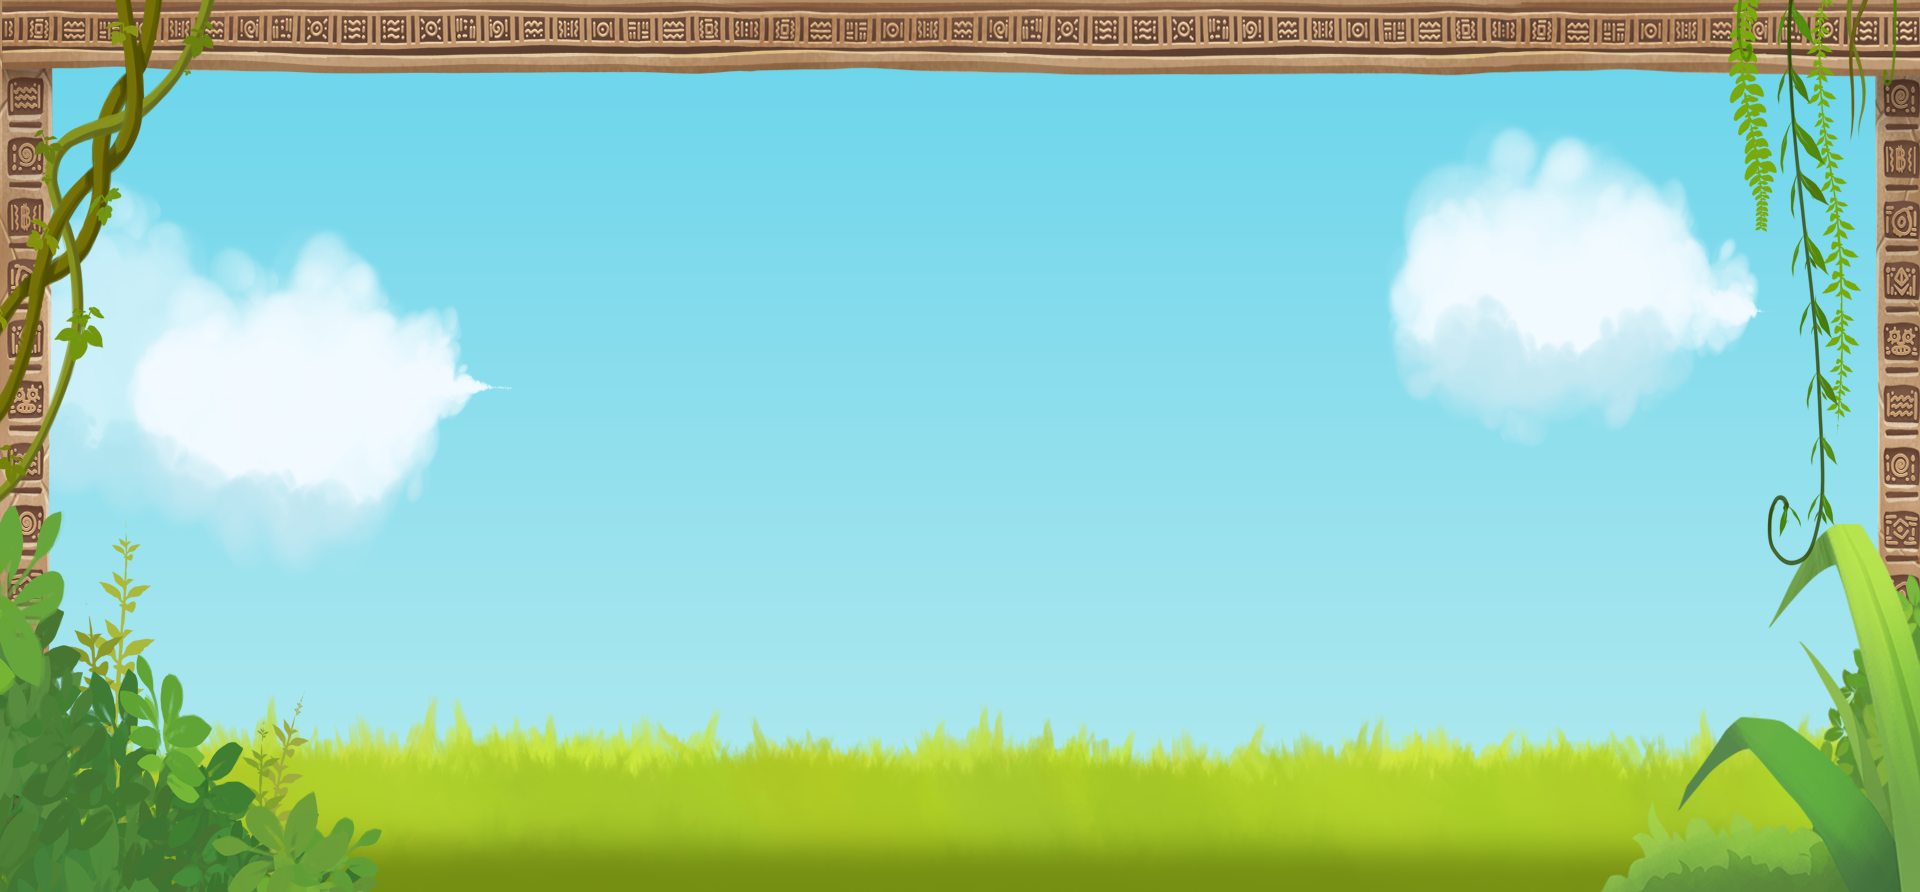
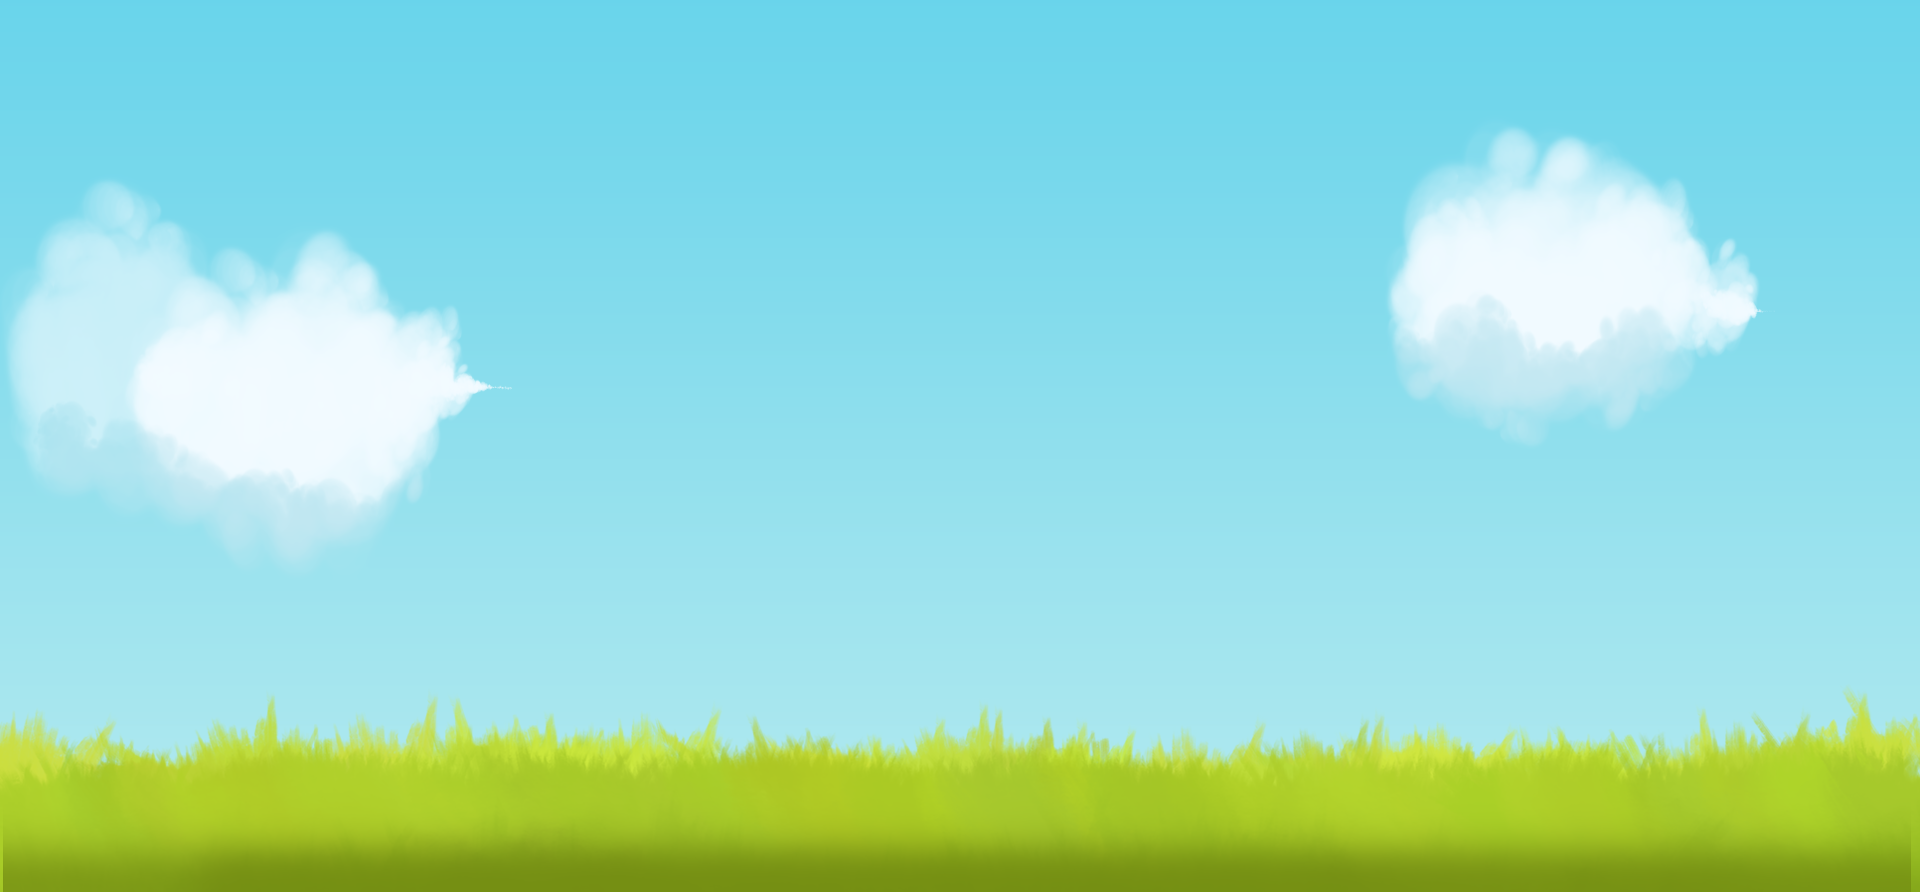
NFT backgrounds Update

Changed region(s): [[0.0, 0.0, 1.0, 1.0]]

diff --git a/src/components/NFT.jsx b/src/components/NFT.jsx
@@ -1,10 +1,22 @@
 import React, { useRef, useEffect } from "react";
 import title from "../images/nft/NFTs.webp";
 import bitboy from "../images/nft/Bitboy_Website.png";
+
+// borders
+import bordertop from "../images/nft/Borderupper.png";
+import borderright from "../images/nft/Rightborder.png";
+import borderleft from "../images/nft/Leftborder.png";
+// nft
 import nftone from "../images/nft/NFT1.png";
 import nfttwo from "../images/nft/NFT2.png";
 import nftthree from "../images/nft/NFT3.png";
 import nftfour from "../images/nft/NFT4.png";
+
+//grass
+import grassleft from "../images/nft/grass-left.png";
+import grassright from "../images/nft/grass-right.png";
+
+// gsap imports
 import { gsap } from "gsap";
 import { ScrollTrigger } from "gsap/ScrollTrigger";
 import { motion } from "framer-motion";
@@ -20,6 +32,7 @@ const NFT = () => {
   const fadeIn = (element) => {
     gsap.from(element, {
       scale: 0.5,
+      x: -150,
     });
     gsap.to(element, {
       scrollTrigger: {
@@ -28,23 +41,24 @@ const NFT = () => {
         markers: false,
       },
       scale: 1,
+      x: 0,
       duration: 2,
       ease: "elastic",
     });
   };
 
   useEffect(() => {
-    fadeIn(".guma");
+    fadeIn(".bitboy");
   }, []);
 
   return (
     <motion.div
-      className="flex justify-center items-center  lg:pb-0 bg-[url('images/backgrounds/bg-nft.png')] h-[170vh] sm:h-[120vh] lg:h-[100vh] w-[100%] bg-cover bg-center bg-no-repeat"
+      className="flex justify-center items-center  lg:pb-0 bg-[url('images/backgrounds/bg-nft.png')] h-[120vh] sm:h-[120vh] lg:h-[100vh] w-[100%] bg-cover bg-center bg-no-repeat"
       ref={constraintsRef}
     >
-      <div className="nft-content">
+      <div className="nft-content h-[120vh] sm:h-[120vh] lg:h-[100vh] w-[100%]">
         <div className="w-full max-w-[1140px] h-[100%] flex flex-col items-center py-[8rem]">
-          <div className="w-[300px]">
+          <div className="w-[200px]">
             <img src={title} alt="/" />
           </div>
 
@@ -63,7 +77,7 @@ const NFT = () => {
                     sm:bg-[url('images/ecosystem/placeholder-ecosystem.png')] 
                     lg:bg-[url('images/nft/Placeholder.png')] select-none bg-center
                     bg-contain bg-no-repeat flex justify-center items-center text-center  
-                    sm:h-[400px] w-[100%] z-[3]"
+                    sm:h-[400px] w-[100%] z-[5]"
                   >
                     <h1 className="font-[geliofasolada] text-xl lg:text-xl uppercase text-[#633922] tracking-wider">
                       {text}
@@ -74,48 +88,91 @@ const NFT = () => {
             })}
           </div>
         </div>
-        <div className="absolute bottom-[-12%] lg:bottom-[0] left-0 z-[4] bitboy">
+
+        <div className="absolute bottom-[10%] left-[5%] lg:left-[2%] z-[4] bitboy">
           <img className="w-[150px] lg:w-[300px]" src={bitboy} alt="/" />
+        </div>
+        {/* border */}
+        <div className="absolute left-0 top-[0%] z-[5] bg-[url('images/nft/Borderupper.png')] h-[120px] lg:h-[90px] w-[100%] bg-cover bg-center bg-no-repeat">
+        
+        </div>
+
+        <div className="absolute right-0 top-[0%] z-[4] border-lr">
+          <img className="w-[100%]" src={borderright} alt="/" />
+        </div>
+
+        <div className="absolute left-0 top-[0%] z-[4] border-lr">
+          <img className="w-[100%]" src={borderleft} alt="/" />
+        </div>
+
+        {/* grass */}
+
+        <div className="absolute left-0 bottom-[0%] z-[4]">
+          <img className="w-[100%] h-[200px] sm:h-[300px] lg:h-[400px]" src={grassleft} alt="/" />
+        </div>
+
+        <div className="absolute right-0 bottom-[0%] z-[4]">
+          <img className="w-[100%] h-[200px] sm:h-[300px] lg:h-[400px]" src={grassright} alt="/" />
         </div>
 
         {/* artifact 1 */}
 
         <motion.div
-          className="absolute bottom-[-12%] lg:bottom-[0] left-[20%] z-[4]"
+          className="absolute bottom-[5%] left-[25%] z-[6]"
           drag
           dragConstraints={constraintsRef}
         >
-          <img className="w-[100px] lg:w-[150px]" id="artifact" src={nftone} alt="/" />
+          <img
+            className="w-[100px] lg:w-[150px] floating"
+            id="artifact"
+            src={nftone}
+            alt="/"
+          />
         </motion.div>
 
         {/* artifact 2 */}
 
         <motion.div
-          className="absolute bottom-[-12%] lg:bottom-[0] left-[35%] z-[4]"
+          className="absolute bottom-[5%] left-[40%] z-[6]"
           drag
           dragConstraints={constraintsRef}
         >
-          <img className="w-[100px] lg:w-[150px]" id="artifact" src={nfttwo} alt="/" />
+          <img
+            className="w-[100px] lg:w-[150px] floating"
+            id="artifact"
+            src={nfttwo}
+            alt="/"
+          />
         </motion.div>
 
         {/* artifact 3 */}
 
         <motion.div
-          className="absolute bottom-[-12%] lg:bottom-[0] left-[50%] z-[4] "
+          className="absolute bottom-[5%] left-[55%] z-[6]"
           drag
           dragConstraints={constraintsRef}
         >
-          <img className="w-[100px] lg:w-[150px]" id="artifact" src={nftthree} alt="/" />
+          <img
+            className="w-[100px] lg:w-[150px] floating"
+            id="artifact"
+            src={nftthree}
+            alt="/"
+          />
         </motion.div>
 
         {/* artifact 4 */}
 
         <motion.div
-          className="absolute bottom-[-12%] lg:bottom-[0] left-[65%] z-[4] bitboy"
+          className="absolute bottom-[5%] left-[70%] z-[6]"
           drag
           dragConstraints={constraintsRef}
         >
-          <img className="w-[100px] lg:w-[150px]" id="artifact" src={nftfour} alt="/" />
+          <img
+            className="w-[100px] lg:w-[150px] floating"
+            id="artifact"
+            src={nftfour}
+            alt="/"
+          />
         </motion.div>
       </div>
     </motion.div>

diff --git a/src/components/Tokenomics.jsx b/src/components/Tokenomics.jsx
@@ -4,17 +4,22 @@ import Banner from "../images/tokenomics/banner.png";
 
 const Tokenomics = () => {
   return (
-    <div className=" w-full h-[130vh]  md:h-[140vh] xl:h-[70vh] bg-cover bg-[url(images/tokenomics/BG.png)] bg-no-repeat flex justify-center py-20">
+    <div className=" w-full h-[150vh] md:h-[150vh] xl:h-[70vh] bg-cover bg-[url(images/tokenomics/BG.png)] bg-no-repeat flex justify-center py-20">
       <div className=" w-full max-w-[1240px] flex py-20 items-center flex-wrap justify-center ">
-        <div className="order-2 lg:order-1">
-          <img src={Guma} className="md:w-[400px] w-[350px] rounded-3xl" />
+
+        <div className="order-2" id="section-tokenomics">
+          <img src={Guma} className="md:w-[400px] w-[350px] rounded-3xl" alt="/"/>
         </div>
 
-        <div className=" flex flex-col lg:flex-col md:justify-between justify-center items-center md:items-start py-10 md:pl-10 gap-10 flex-wrap p-5 order-1 lg:order-2">
+        <div className=" flex flex-col lg:flex-col md:justify-center justify-center items-center md:items-center py-10 md:pl-10 gap-10 flex-wrap p-5 order-1 " id="section-tokenomics">
           <div>
-            <img src={Banner} className="w-[400px]" />
+            <img src={Banner} className="w-[400px]" alt="/"/>
           </div>
-          <div className="p-[60px] bg-[url(images/tokenomics/placeholder2.png)] bg-contain bg-no-repeat bg-center h-[300px] text-center flex items-center font-bold text-[16px] text-[#744123] xsm:h-[400px] xsm:p-[100px] sm:p-[120px] md:p-[180px] lg:bg-[url(images/tokenomics/placeholder.png)] lg:w-[700px] lg:p-5 lg:h-[150px]">
+          <div className="p-[60px] bg-[url(images/tokenomics/placeholder2.png)] 
+          bg-contain bg-no-repeat bg-center h-[300px] text-center flex items-center 
+          font-bold text-[16px] text-[#744123] xsm:h-[400px] xsm:p-[100px] 
+          sm:p-[140px] md:p-[100px] md:bg-[url(images/tokenomics/placeholder.png)] 
+          lg:w-[700px] lg:p-5 lg:h-[150px]">
             <h1 >
               A private sale will be held for players and supporters to buy
               $GUMA which will jumpstart their CryptoIsland journeys! More plans

diff --git a/src/components/Ecosystem.jsx b/src/components/Ecosystem.jsx
@@ -35,11 +35,11 @@ const Ecosystem = () => {
 
   return (
     <div
-      className="flex justify-center items-center pb-[30vh] lg:pb-0 bg-[url('images/backgrounds/Ecosystem.png')] h-[170vh] sm:h-[120vh] lg:h-[100vh] w-[100%] bg-cover bg-center bg-no-repeat"
+      className="flex justify-center items-center pb-[30vh] lg:pb-0 bg-[url('images/backgrounds/Ecosystem.png')] h-[170vh] sm:h-[120vh] lg:h-[100vh] w-[100%] bg-cover bg-center bg-no-repeat" 
       ref={sectionRef}
     >
       <div className="w-full max-w-[1140px] h-[100%] flex flex-col justify-center items-center">
-        <div className="w-[300px]">
+        <div className="w-[200px]">
           <img src={title} alt="/" />
         </div>
 

diff --git a/src/index.css b/src/index.css
@@ -101,14 +101,26 @@
     }
   }
 
+  @media screen and (min-width:1159px){
+    #section-tokenomics{
+      order:1;
+    }
+  }
+
   .nft-content{
     z-index: 3;
-    position: relative;
+    position: absolute;
     padding: 0vw;
     width:100vw;
+    height:auto;
     display: flex;
     align-items: center;
     justify-content: center;
   }
 
+  @media screen and (max-width:811px){
+    .border-lr{
+      visibility: hidden;
+    }
+  }
 }

diff --git a/src/components/Staking.jsx b/src/components/Staking.jsx
@@ -28,9 +28,9 @@ const Staking = () => {
           },
           y: 0,
           ease: "power4",
-          duration: 0.5,
+          duration: 0.3,
           opacity: 1,
-          delay: (i + 1) / 2,
+          delay: (i + 1) / 5,
         }
       );
     }

diff --git a/src/components/Hero.jsx b/src/components/Hero.jsx
@@ -65,6 +65,8 @@ const Hero = () => {
     });
   }
 
+  
+
   function parallaxCloud() {
     gsap.set("#cloud-anim", {
       x: -150,
